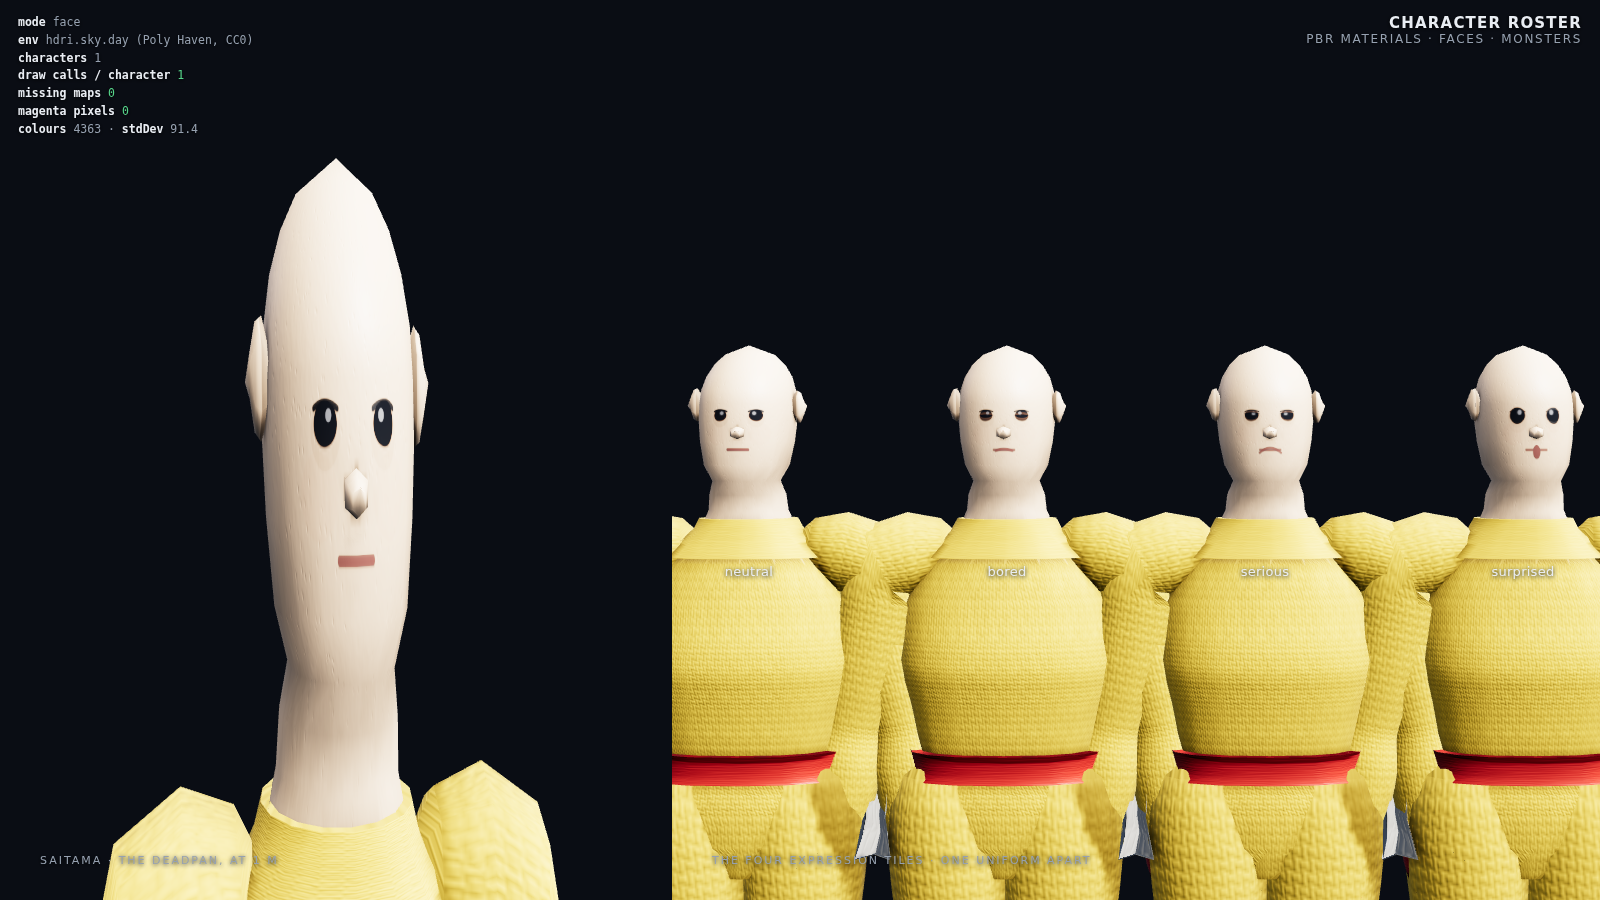
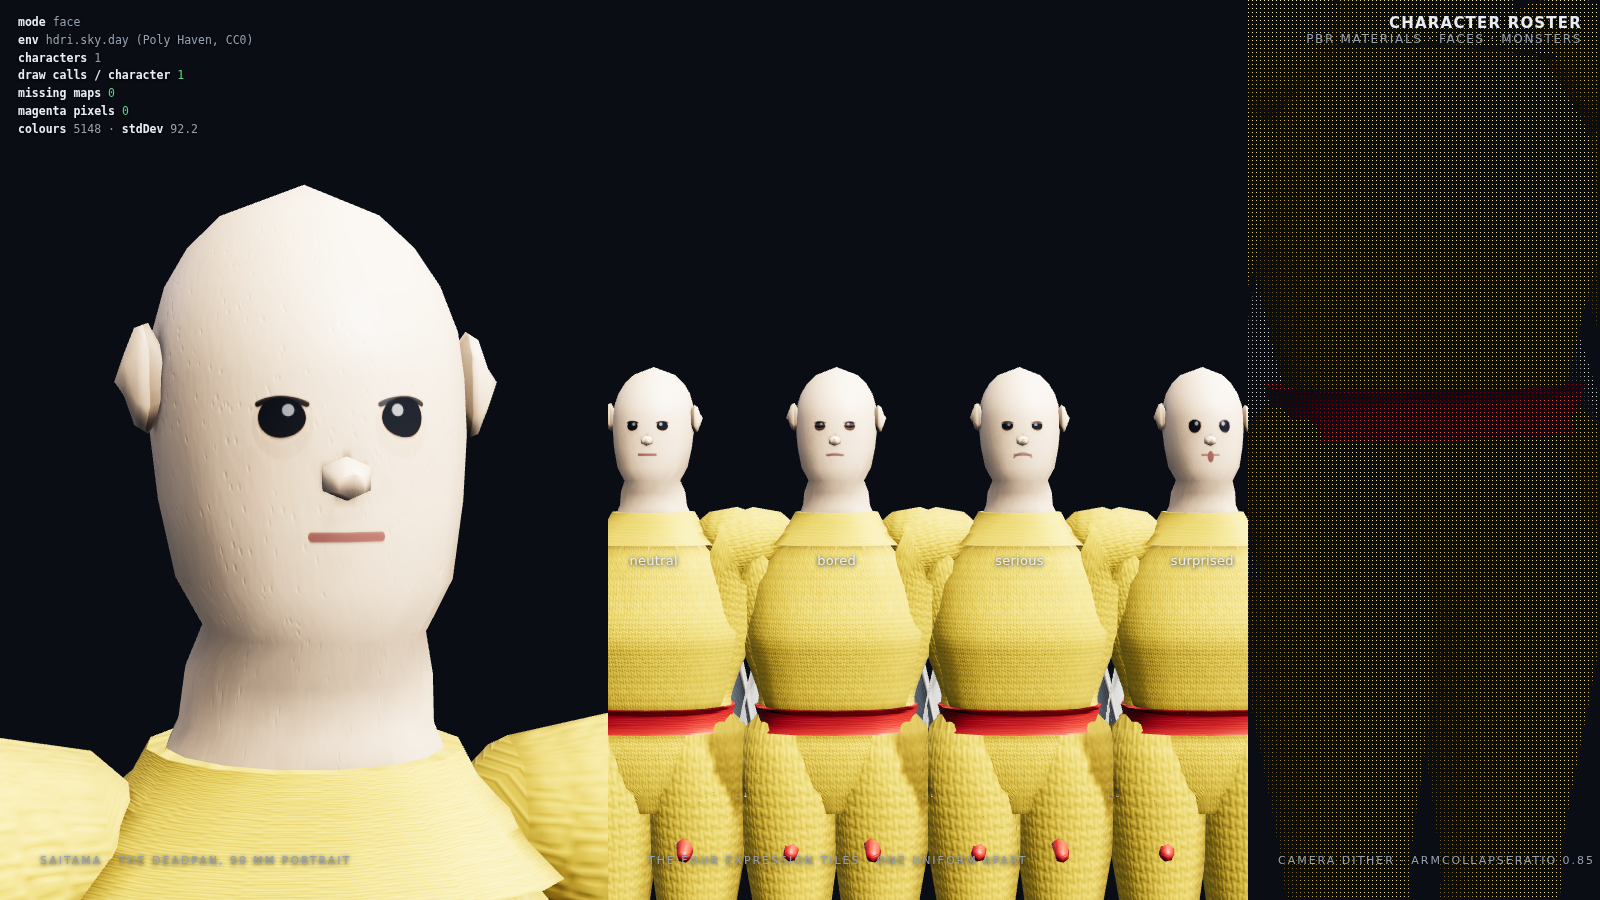
Character roster: PBR atlases, faces, monsters and the player dither
Every character now bakes to one texture set and renders in ONE draw call
with per-texel metalness, so Genos' alloy forearms and his cotton shirt
share a material. Faces are painted at the mesh's published landmarks in
four expressions selectable by a uniform.

Fixes found by looking at the renders rather than at the tests:
  - the cape's raw 0..1 unwrap covered the whole atlas;
  - the collar, belt, cuffs and boots all shared one rectangle, so the last
    island baked won and Saitama wore a red rubber collar;
  - an all-zero alpha channel (the old tint-mask home) was flattened to a
    constant by libvips on save, which is why the monsters rendered as bare
    environment reflection;
  - pattern frequencies under Nyquist moired into knitwear and static;
  - and the portrait camera used the canvas aspect inside a narrow scissor
    viewport, stretching the hero shot 2.4x vertically into a cone.

Camera-proximity dither added for the player only, driven by the rig's
armCollapseRatio, as an ordered screen door in the opaque pass.

Claude-Session: https://claude.ai/code/session_01Eu52StAEGMiytM7UTvKy5J

diff --git a/harness/roster.ts b/harness/roster.ts
@@ -590,7 +590,7 @@ async function runFace(): Promise<Record<string, unknown>> {
     // One ROW, not a grid: stacked heads are occluded by the shoulders of the
     // character in front of them, which is how the first attempt hid two of
     // the four expressions entirely.
-    character.root.position.set(6 + i * 0.45, 0, 0);
+    character.root.position.set(6 + i * 0.38, 0, 0);
     character.root.rotation.y = Math.PI;
     scene.add(character.root);
     strip.push(character);
@@ -613,8 +613,8 @@ async function runFace(): Promise<Record<string, unknown>> {
   camera.lookAt(0, eyeY - 0.02, 0);
 
   const grid = new THREE.PerspectiveCamera(26, gridWidth / HEIGHT, 0.05, 40);
-  grid.position.set(6.675, eyeY - 0.06, 3.55);
-  grid.lookAt(6.675, eyeY - 0.06, 0);
+  grid.position.set(6.57, eyeY - 0.05, 4.05);
+  grid.lookAt(6.57, eyeY - 0.05, 0);
 
   const fadeCamera = new THREE.PerspectiveCamera(34, fadeWidth / HEIGHT, 0.05, 40);
   fadeCamera.position.set(12.05, 1.15, 1.55);
